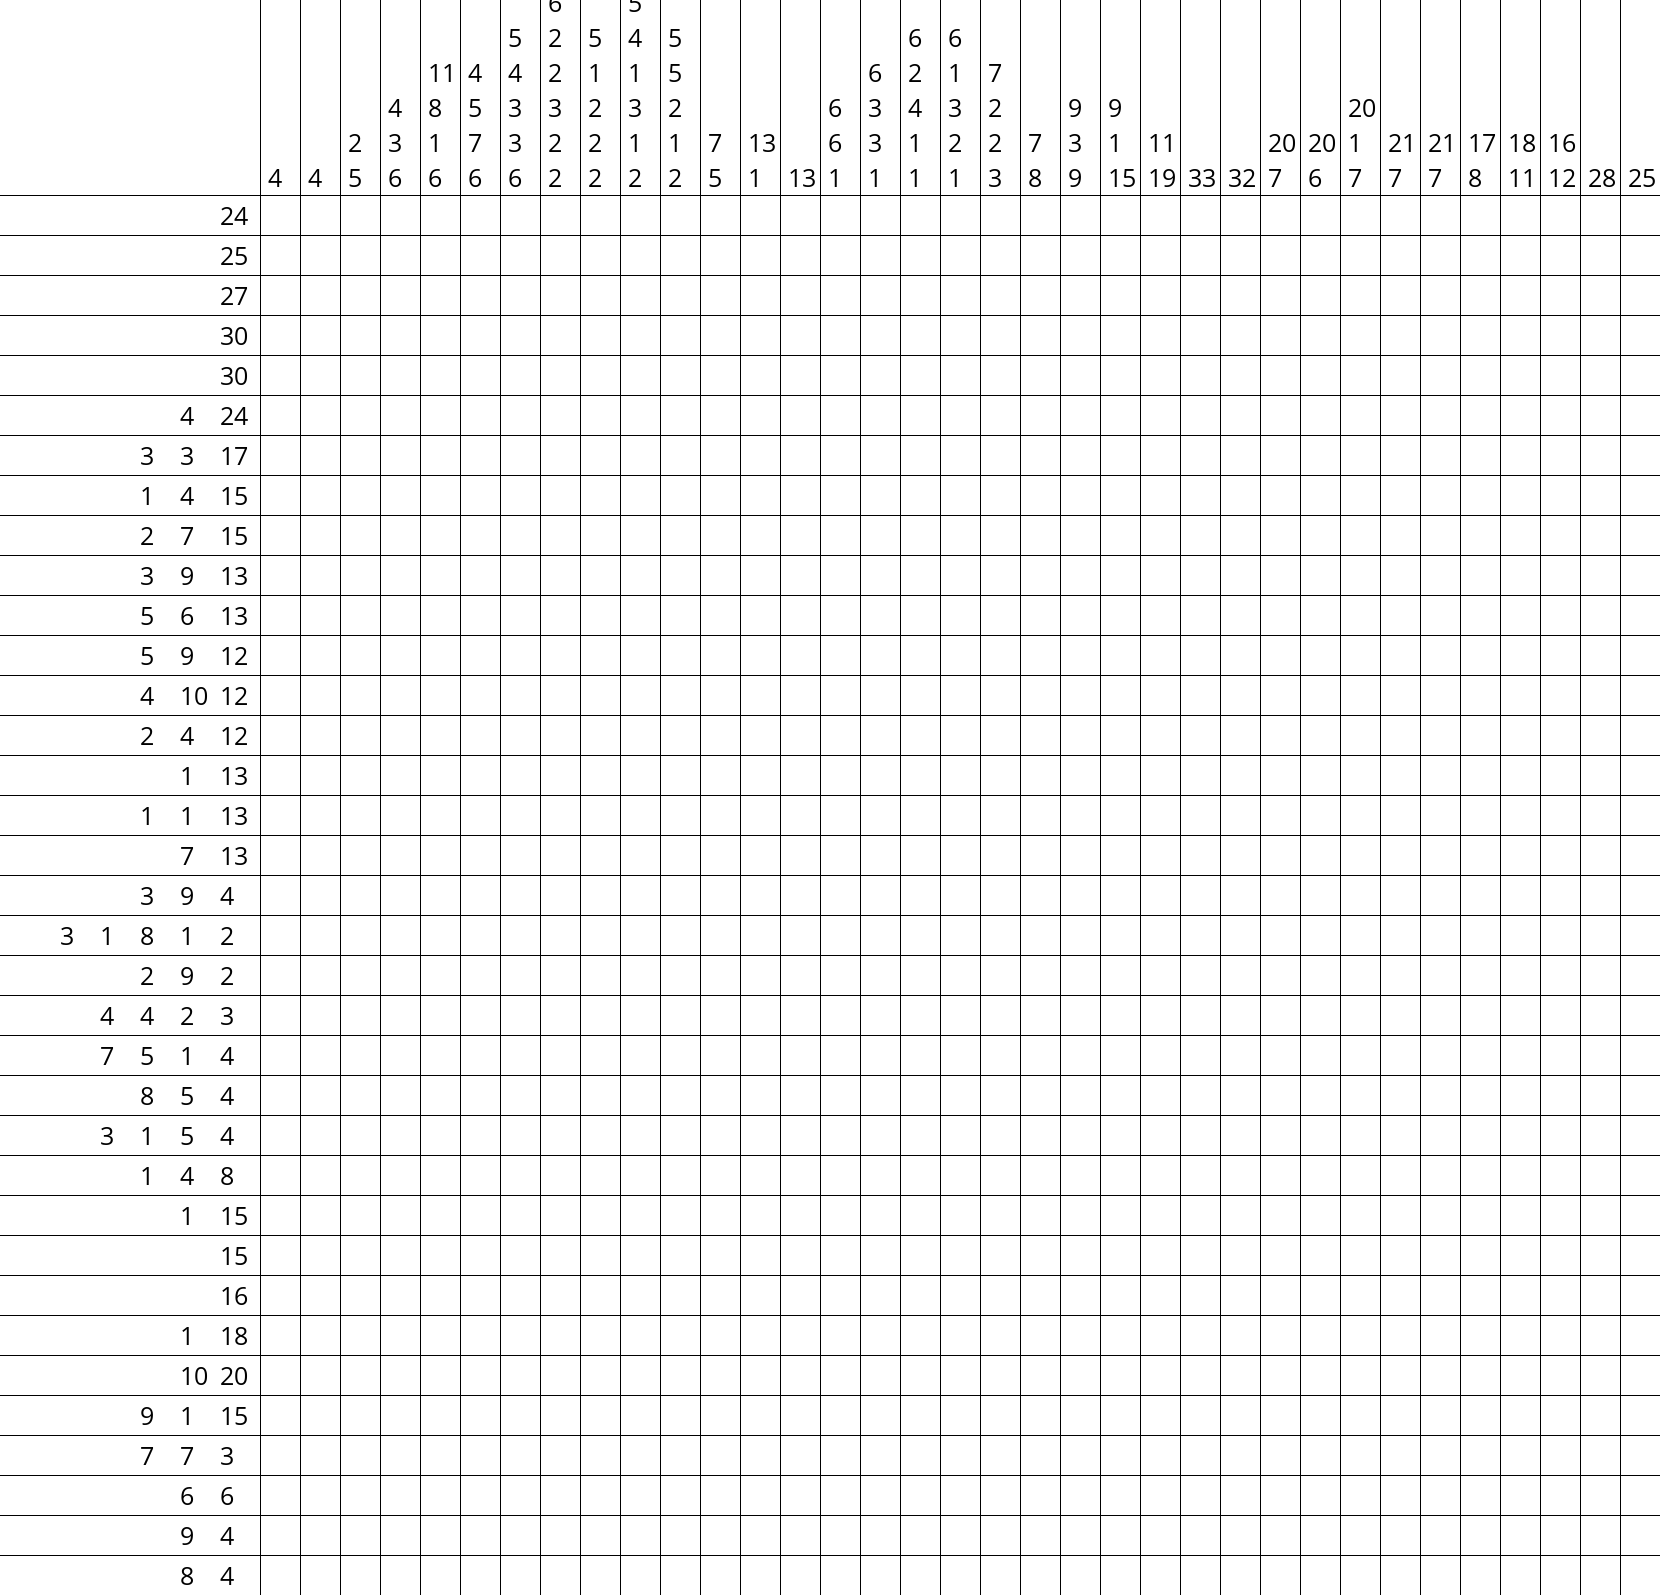
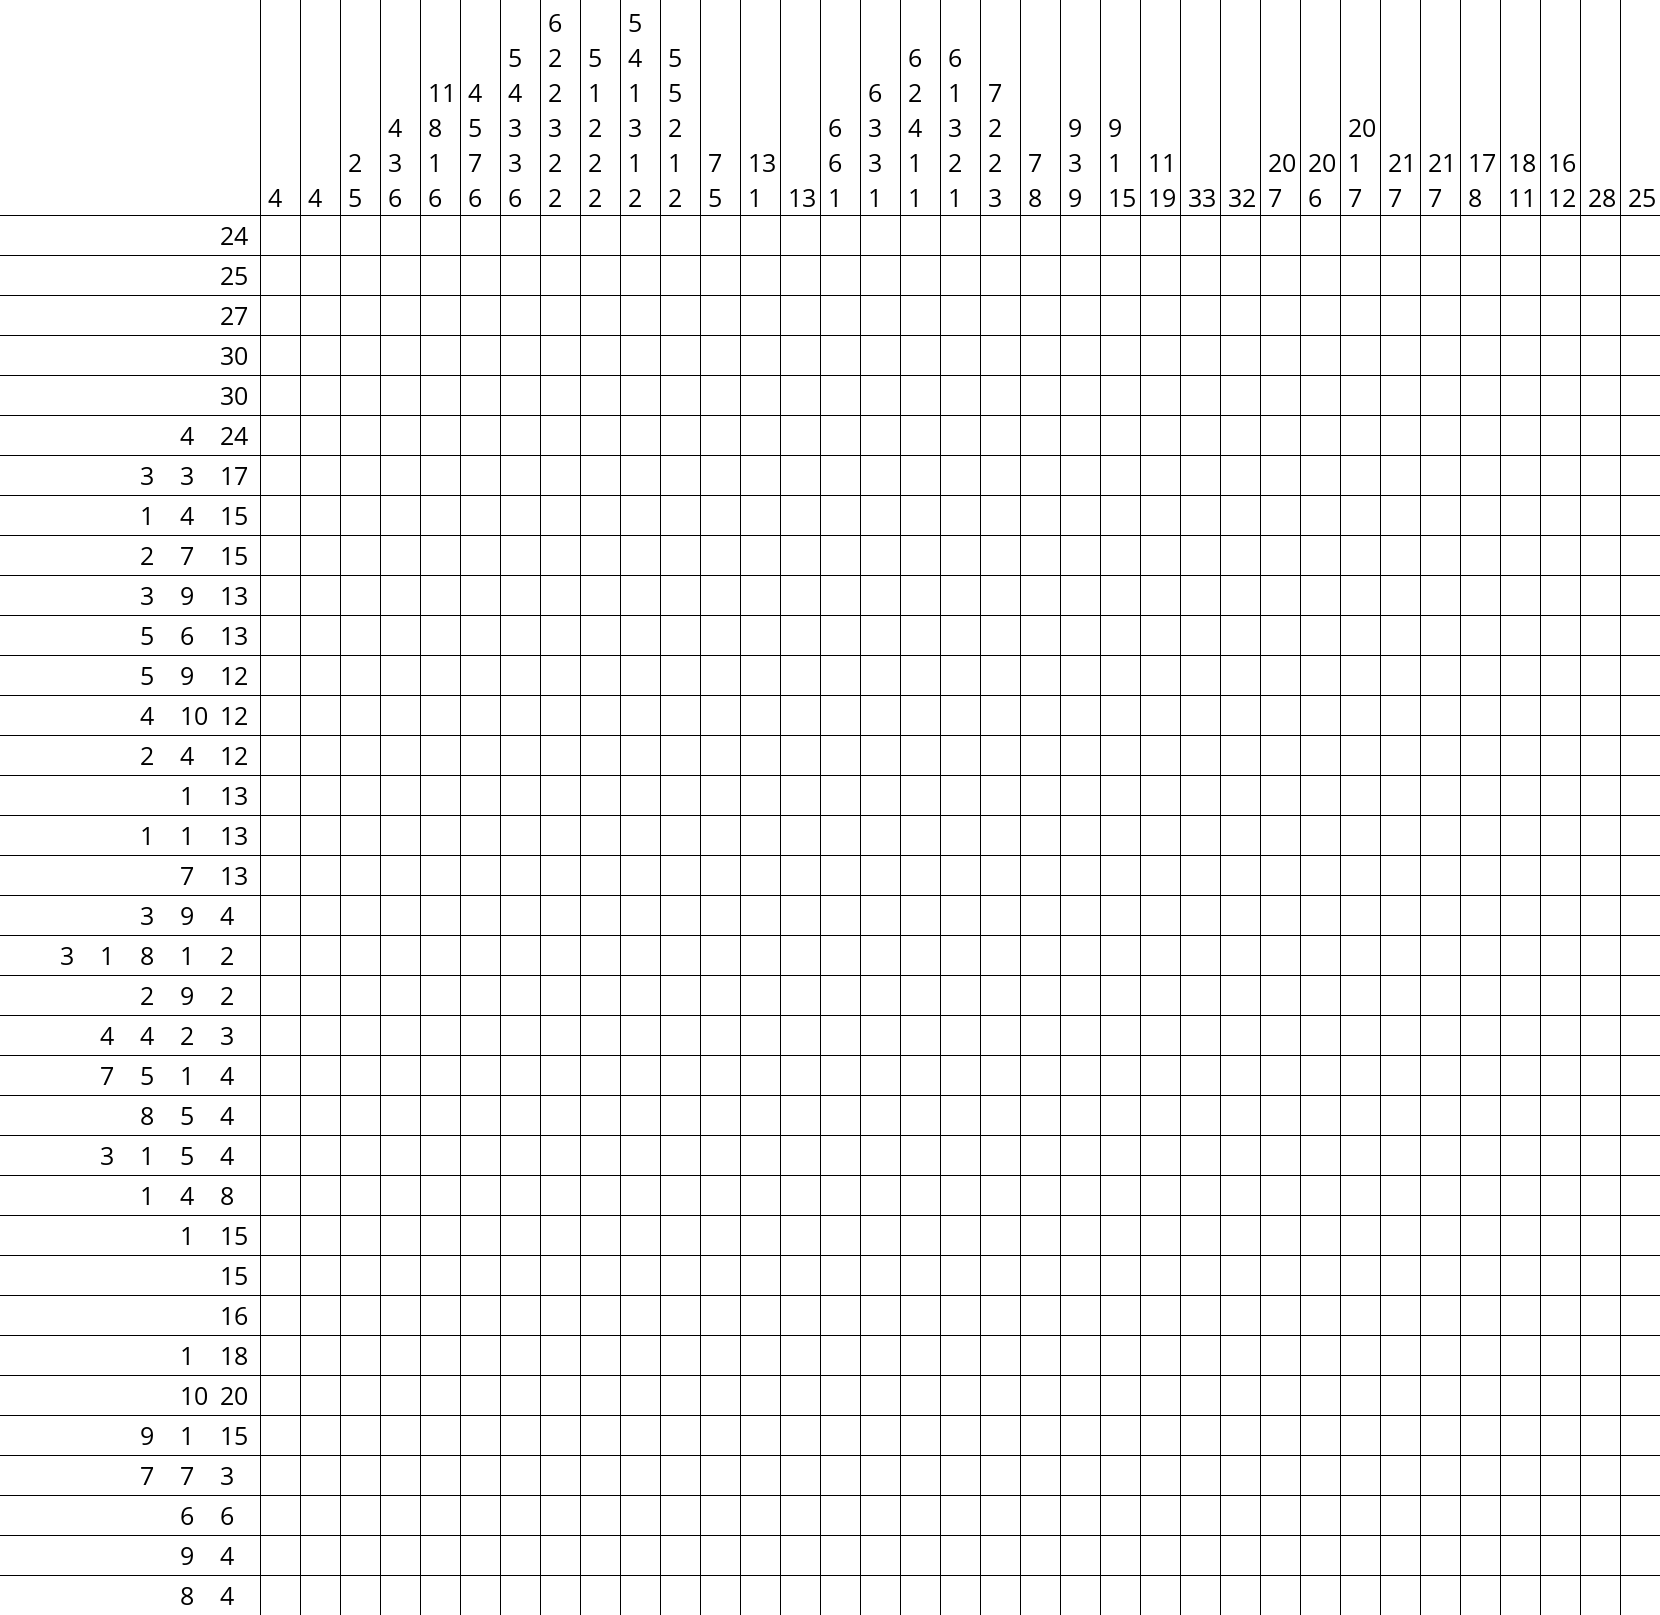
Fixed y offset

diff --git a/nonogram/nonogram.py b/nonogram/nonogram.py
@@ -63,7 +63,7 @@ class Nonogram:
 		white = (255, 255, 255)
 
 		offset_x = max(hor_len)*40+20
-		offset_y = max(ver_len)*35+20
+		offset_y = max(ver_len)*35+40
 		size_grid = 40
 
 		size_x = offset_x+width*size_grid
